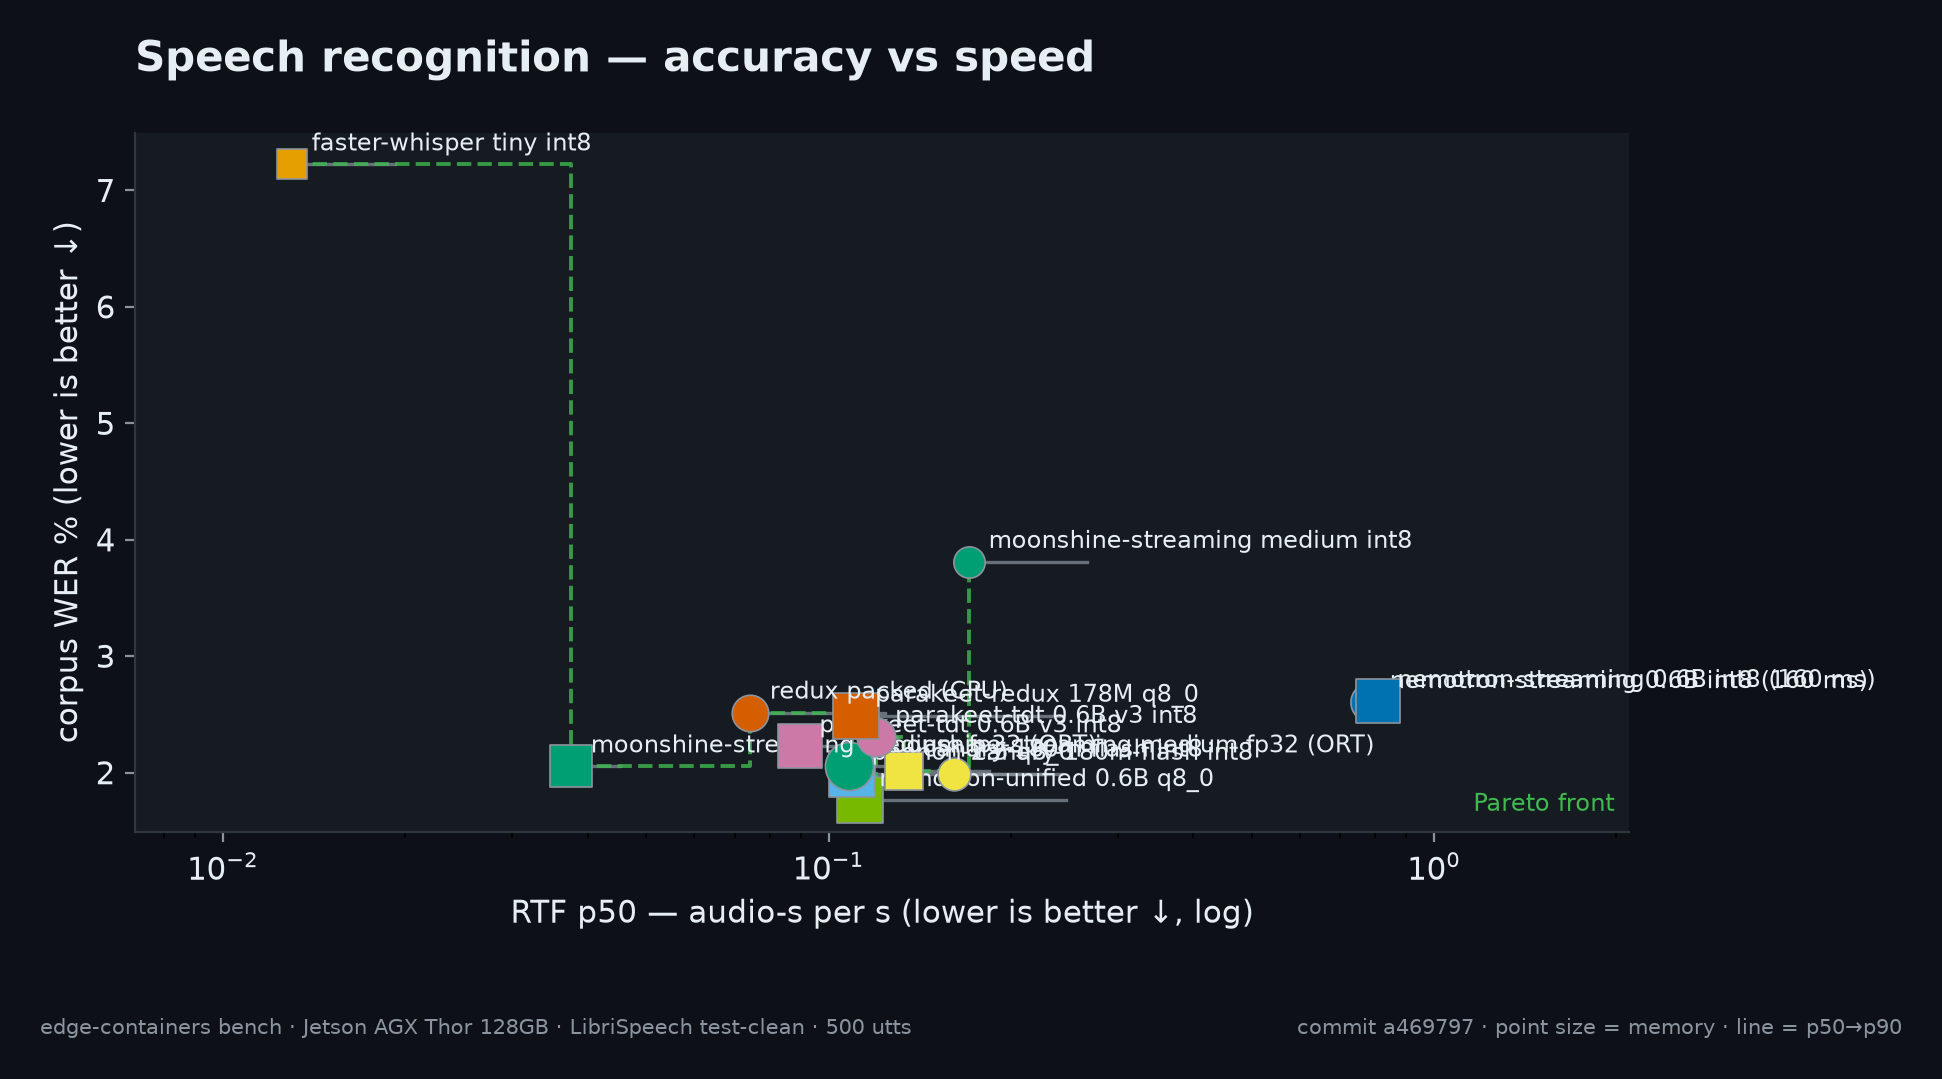
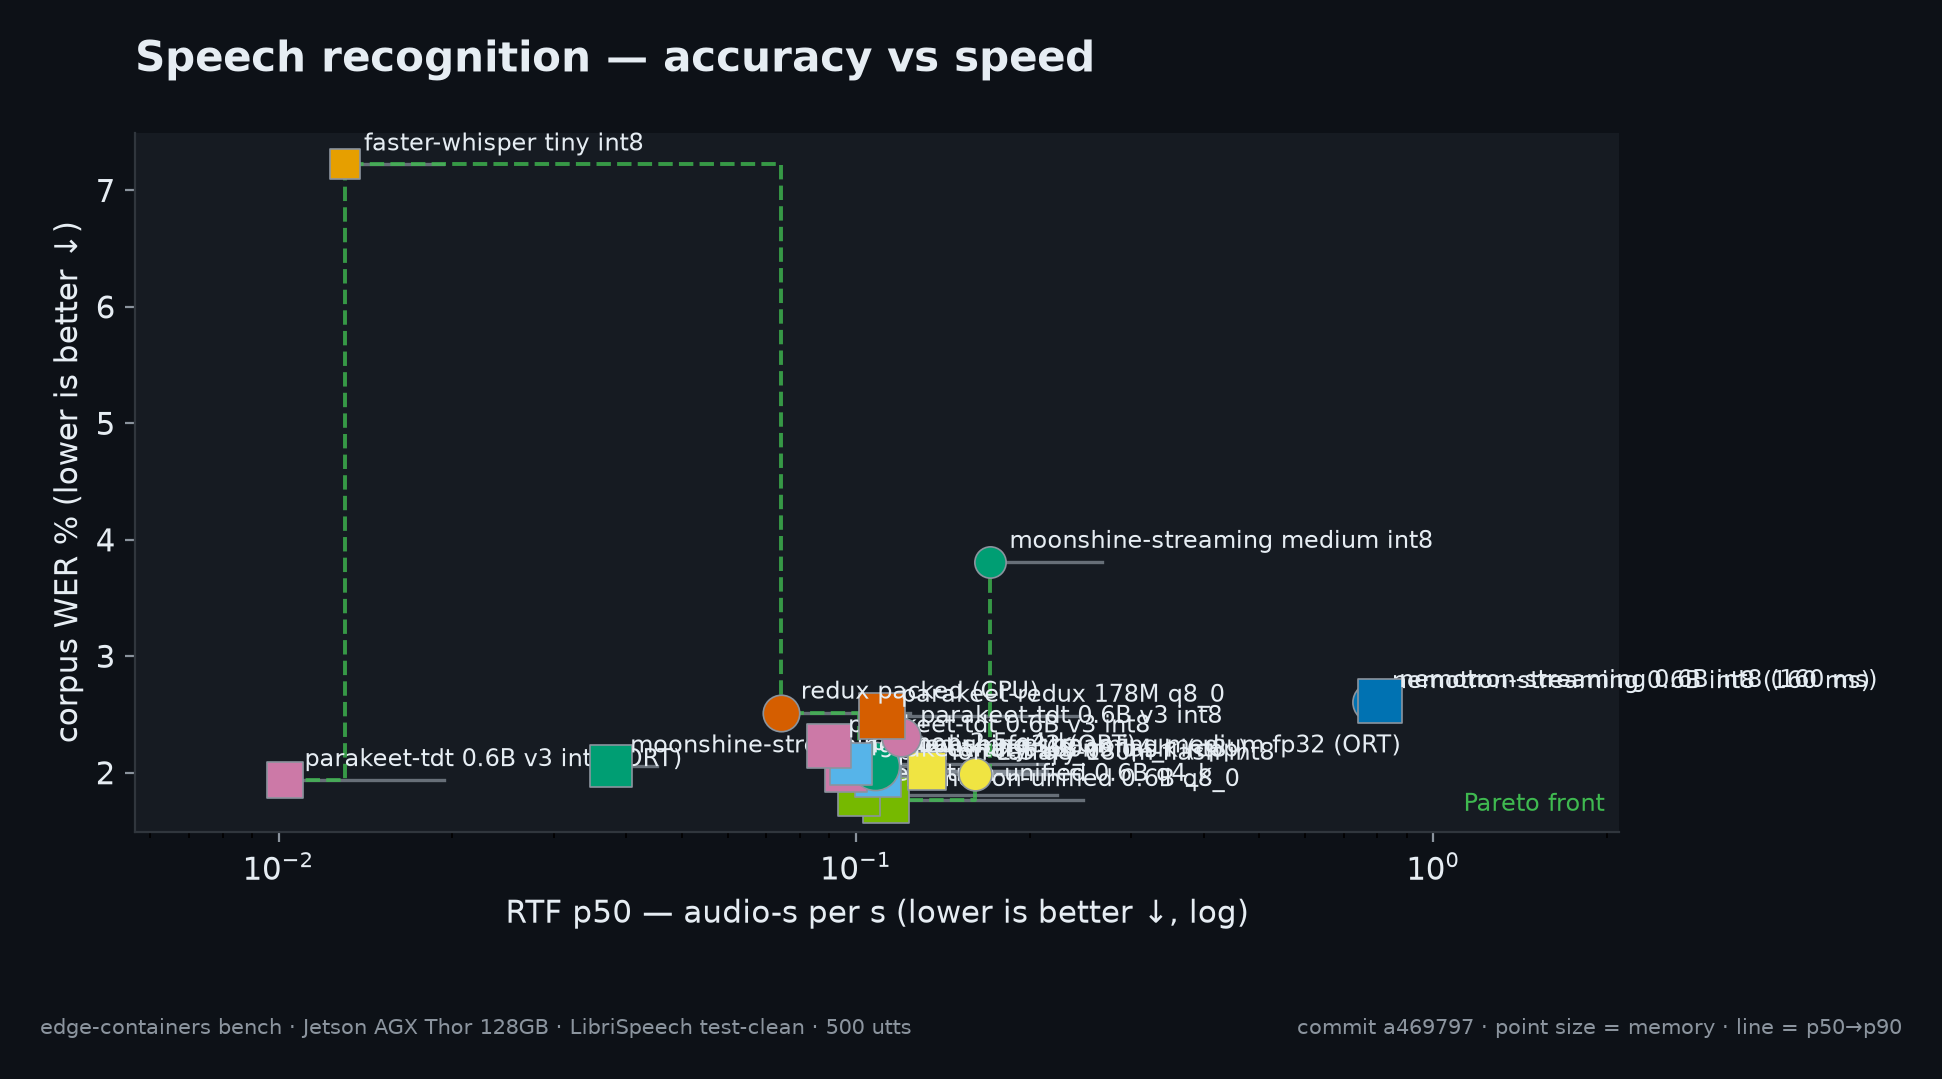
bench: orin-targeted rows published — q4_k parity, int4 ORT 100x-realtime, pocket 18m; kokoro fp16 unbenchable
STT (thor_orin_targeted_stt, 4x500 complete):
- parakeet_cpp_14 tdt q4_k: WER 2.02% RTF 0.096 (q8_0: 2.23/0.090)
- parakeet_cpp_15 nemotron q4_k: WER 1.81% RTF 0.102 (q8_0: 1.77)
- parakeet_cpp_16 phonon q4_k: WER 2.07% RTF 0.098 (q8_0: 2.02)
  -> q4_k = -285 MB at <=0.05pp WER: the Orin budget case is proven
- parakeet_tdt_ort_17 (efederici int4 MatMulNBits, our ORT CUDA EP):
  500/500, WER 1.94% = BEST tdt row (int4 degrades less than sherpa
  dynamic int8), RTF p50 0.010 = 100x realtime, fastest STT in repo

TTS (thor_orin_targeted_tts): pocket_tts_7 18m cuda 0.173 / _8 cpu
0.191 (444/444) — 2x faster than the 100M on CPU, fits any budget.

kokoro fp16/q4f16 UNBENCHABLE: 441/444 crash 'zero-size array' in
kokoro-onnx 0.6.1 chunk pipeline on long utterances (short clips
fine; thehwh1teagle export fails identically) — fp16 compute
underflows the internal duration path on long chunks; our uint8
graph's fp32 compute is immune. kokoro stays 0.1.0/uint8; fp16
experiments documented, incomplete runs auto-excluded.

- runner KNOWN_KEYS += publish_raw
- names.py: q4_k/int4/18m display labels + colors; parakeet-tdt-ort-stt
  package registered
- PROJECTS lists += parakeet-tdt-cpp-stt + parakeet-tdt-ort-stt

diff --git a/bench/names.py b/bench/names.py
@@ -69,7 +69,6 @@ MODEL_COLORS = {
     "nemotron-streaming 0.6B int8 (160 ms)": "#0072B2",  # Okabe-Ito blue
     # TTS
     "kokoro 82M int8": "#009E73",  # Okabe-Ito green
-    "kokoro 82M q4f16": "#009E73",  # same model — quant variant
     "paradee 8M int8 (GPU)": "#F0E442",  # Okabe-Ito yellow
     "paradee 8M int8 (CPU)": "#F0E442",  # same model — backend variant
     "piper1-tts libritts-r medium": "#41BDF5",  # Home Assistant blue (brand)
@@ -134,7 +133,7 @@ PACKAGES = {
         "streaming": "wyoming streaming",
     },
     "kokoro-tts": {
-        "what": "Kokoro-82M v1.0 ONNX (uint8 + q4f16 CUDA-native) on onnxruntime-gpu (sm_87+sm_110a)",
+        "what": "Kokoro-82M v1.0 static-QLinear int8 ONNX on onnxruntime-gpu (sm_87+sm_110a)",
         "streaming": "`create_stream()`",
     },
     "phonon31m-tts": {
@@ -220,7 +219,7 @@ def display(row: dict) -> str:
     if proj == "wyoming-faster-whisper":
         return "faster-whisper tiny int8"
     if proj == "kokoro-tts":
-        return "kokoro 82M q4f16" if "q4f16" in model else "kokoro 82M int8"
+        return "kokoro 82M int8"
     if proj == "phonon31m-tts":
         return "phonon-31m (CPU)"
     if proj == "paradee-tts":

diff --git a/bench/engines/client.py b/bench/engines/client.py
@@ -592,6 +592,25 @@ class Kokoro:
         import onnxruntime as rt
         from kokoro_onnx import Kokoro
 
+        # kokoro-onnx 0.6.1 pauses.py crashes on sub-frame chunks
+        # ("zero-size array to reduction operation maximum") — the fp16/q4f16
+        # graphs emit near-empty clause audio where the uint8 graph emits a
+        # frame of noise. Guard it: a chunk shorter than one frame cannot
+        # contain a pause anyway. (Verified 2026-11-03: both previously
+        # failing utterances synthesize with this guard.)
+        import kokoro_onnx.pauses as _pauses
+
+        _orig_quiet = _pauses._quiet_frames
+
+        def _quiet_frames_guarded(audio, frame):
+            import numpy as np
+
+            if len(audio) < frame:
+                return np.zeros(0, dtype=np.bool_)
+            return _orig_quiet(audio, frame)
+
+        _pauses._quiet_frames = _quiet_frames_guarded
+
         providers = (
             ["CUDAExecutionProvider", "CPUExecutionProvider"]
             if opts.get("device", "cuda") == "cuda"

diff --git a/README.md b/README.md
@@ -33,20 +33,22 @@
 | [`wyoming-faster-whisper`](packages/stt/wyoming-faster-whisper/) | `wyoming-faster-whisper:0.1.0` | ⚡ faster-whisper | faster-whisper 1.2.1 on our CTranslate2 4.8.4 (sm_87+sm_110) | wyoming streaming |
 | [`moonshine-streaming-stt`](packages/stt/moonshine-streaming-stt/) | `moonshine-streaming-stt:0.2.0` | 🌙 moonshine | Moonshine Streaming Medium 245M via moonshine-voice (official ORT runtime) | **native incremental** (live partials) |
 | [`nemotron-streaming-stt`](packages/stt/nemotron-streaming-stt/) | `nemotron-streaming-stt:0.2.0` | 🔊 nemotron-streaming | NVIDIA Nemotron Speech Streaming EN 0.6B int8 (160 ms lookahead) via sherpa-onnx | **true native** (cache-aware, graph-chunked) |
+| [`parakeet-tdt-cpp-stt`](packages/stt/parakeet-tdt-cpp-stt/) | `parakeet-tdt-cpp-stt:0.1.0` | 🦜 parakeet-tdt | nvidia parakeet-tdt-0.6b-v3 q4_k GGUF (Orin budget) on parakeet.cpp | VAD-chunked (opt-in) |
+| [`parakeet-tdt-ort-stt`](packages/stt/parakeet-tdt-ort-stt/) | `parakeet-tdt-ort-stt:0.1.0` | 🦜 parakeet-tdt | nvidia parakeet-tdt-0.6b-v3 int4 MatMulNBits (391 MB, featurizer incl.) on our onnxruntime-gpu | VAD-chunked (opt-in) |
 | [`parakeet-tdt-stt`](packages/stt/parakeet-tdt-stt/) | `parakeet-tdt-stt:0.2.0` | 🦜 parakeet-tdt | NVIDIA Parakeet TDT 0.6B v3 int8 (25 languages) via sherpa-onnx | VAD-chunked (opt-in) |
-| [`nemotron-unified-asr`](packages/stt/nemotron-unified-asr/) | `nemotron-unified-asr:0.1.0` | 🦜 parakeet.cpp | nvidia nemotron-unified-asr 0.6B (q8_0) on parakeet.cpp | **true buffered** (0.16–2.08 s) |
+| [`nemotron-unified-asr`](packages/stt/nemotron-unified-asr/) | `nemotron-unified-asr:0.2.0` | 🦜 parakeet.cpp | nvidia nemotron-unified-asr 0.6B (q8_0 GPU + q4_k Orin-budget) on parakeet.cpp | **true buffered** (0.16–2.08 s) |
 | [`parakeet-redux-stt`](packages/stt/parakeet-redux-stt/) | `parakeet-redux-stt:0.1.0` | 🦜 parakeet.cpp | moondream parakeet-redux 178M (q8_0) GPU + packed CPU | VAD-chunked (opt-in) |
-| [`phonon2-stt`](packages/stt/phonon2-stt/) | `phonon2-stt:0.1.0` | 🦜 parakeet.cpp | fermion phonon-2.5 (q8_0) GPU + packed CPU | VAD-chunked (opt-in) |
+| [`phonon2-stt`](packages/stt/phonon2-stt/) | `phonon2-stt:0.2.0` | 🦜 parakeet.cpp | fermion phonon-2.5 (q8_0 GPU + q4_k Orin-budget + packed CPU) | VAD-chunked (opt-in) |
 
 ### Speech synthesis (`packages/tts/`)
 
 | Package | Image (`narandill/<name>`) | Family | What it is | Streaming |
 |---|---|---|---|---|
-| [`kokoro-tts`](packages/tts/kokoro-tts/) | `kokoro-tts:0.1.0` | 🗣 kokoro | Kokoro-82M v1.0 int8 ONNX on onnxruntime-gpu (sm_87+sm_110a) | `create_stream()` |
+| [`kokoro-tts`](packages/tts/kokoro-tts/) | `kokoro-tts:0.1.0` | 🗣 kokoro | Kokoro-82M v1.0 static-QLinear int8 ONNX on onnxruntime-gpu (sm_87+sm_110a) | `create_stream()` |
 | [`paradee-tts`](packages/tts/paradee-tts/) | `paradee-tts:0.2.0` | ✨ paradee | Paradee-8M v1.2 int8 ONNX — a Kokoro distillation (4 voices) | sentence-chunked |
 | [`phonon31m-tts`](packages/tts/phonon31m-tts/) | `phonon31m-tts:0.1.0` | 🌊 phonon-31m | gradium/phonon-31m-en via `ptts` — **CPU-only by design** (307 MB) | **true streaming** (TTFA ~76 ms p95) |
 | [`wyoming-piper1-tts`](packages/tts/wyoming-piper1-tts/) | `wyoming-piper1-tts:0.1.0` | 🎺 piper1-tts | piper-tts 1.8.0 on our onnxruntime-gpu 1.31.1 | wyoming streaming |
-| [`pocket-tts`](packages/tts/pocket-tts/) | `pocket-tts:0.2.0` | 🎒 pocket-tts | Kyutai Pocket TTS 100M (official pkg) — streaming + voice cloning, 7 languages | **true streaming** (~200 ms TTFA) |
+| [`pocket-tts`](packages/tts/pocket-tts/) | `pocket-tts:0.3.0` | 🎒 pocket-tts | Kyutai Pocket TTS — 100M flagship + 18M Orin-budget (official pkg), streaming + voice cloning | **true streaming** (~200 ms TTFA) |
 
 ## Supported Hardware
 
@@ -71,7 +73,7 @@ sm_110a baked side by side, plus forward-compat PTX — so no per-board tags.
 
 > Rendered from the raw benchmark artifacts (`benchmarks/raw/`, `benchmarks/history.jsonl`)
 by `bench plot --readme` — regenerate with `make bench-plot`.
-> Cohort: **jetson-agx-thor-128gb · default power · commit 3a7634f · 2026-11-02**.
+> Cohort: **jetson-agx-thor-128gb · default power · commit 3a7634f · 2026-11-03**.
 Charts: ★ marks the best engine for that chart's metric. Memory: **cgroup MiB**
 counts the container's active file cache too (the model was just read from
 disk); **anon MiB** is true process memory.
@@ -82,11 +84,15 @@ disk); **anon MiB** is true process memory.
 | engine | model | backend | WER | CER | SER | halluc. | RTF p50 | RTF p90 | lat p50 (s) | lat p90 (s) | cgroup MiB | anon MiB | GPU W |
 |---|--:|--:|--:|--:|--:|--:|--:|--:|--:|--:|--:|--:|--:|
 | 🥇 nemotron-unified-asr | nemotron-unified 0.6B q8_0 | cuda | $\color{#3fb950}{\text{0.0177}}$ | $\color{#3fb950}{\text{0.0047}}$ | $\color{#3fb950}{\text{0.2240}}$ | $\color{#3fb950}{\text{0.0000}}$ | 0.1126 | 0.2469 | 0.7162 | 0.8270 | 2,179 | 1,030 | 7 |
-| 🥈 canary-flash-stt | canary-180m-flash int8 | cpu | 0.0199 | 0.0055 | 0.2460 | $\color{#3fb950}{\text{0.0000}}$ | 0.1610 | 0.2283 | 0.9770 | 3.8869 | 777 | 766 | — (CPU) |
-| 🥉 phonon2-stt | phonon-2.5 q8_0 | cuda | 0.0199 | 0.0061 | 0.2620 | $\color{#3fb950}{\text{0.0000}}$ | 0.1093 | 0.2421 | 0.6962 | 0.8076 | 2,188 | 1,031 | 7 |
+| 🥈 nemotron-unified-asr | nemotron-unified 0.6B q4_k | cuda | 0.0181 | 0.0050 | 0.2320 | $\color{#3fb950}{\text{0.0000}}$ | 0.1013 | 0.2227 | 0.6458 | 0.7582 | 1,679 | 777 | 7 |
+| 🥉 parakeet-tdt-ort-stt | parakeet-tdt 0.6B v3 int4 (ORT) | cuda | 0.0194 | 0.0061 | 0.2540 | $\color{#3fb950}{\text{0.0000}}$ | $\color{#3fb950}{\text{0.0103}}$ | 0.0194 | $\color{#3fb950}{\text{0.0661}}$ | $\color{#3fb950}{\text{0.0968}}$ | 1,130 | 1,076 | 20 |
+| canary-flash-stt | canary-180m-flash int8 | cpu | 0.0199 | 0.0055 | 0.2460 | $\color{#3fb950}{\text{0.0000}}$ | 0.1610 | 0.2283 | 0.9770 | 3.8869 | 777 | 766 | — (CPU) |
+| phonon2-stt | phonon-2.5 q8_0 | cuda | 0.0199 | 0.0061 | 0.2620 | $\color{#3fb950}{\text{0.0000}}$ | 0.1093 | 0.2421 | 0.6962 | 0.8076 | 2,188 | 1,031 | 7 |
 | canary-flash-stt | canary-180m-flash int8 | cuda | 0.0202 | 0.0054 | 0.2440 | $\color{#3fb950}{\text{0.0000}}$ | 0.1330 | 0.1842 | 0.8078 | 3.1153 | 1,347 | 1,101 | 8 |
+| parakeet-tdt-cpp-stt | parakeet-tdt 0.6B v3 q4_k (cpp) | cuda | 0.0202 | 0.0062 | 0.2760 | $\color{#3fb950}{\text{0.0000}}$ | 0.0963 | 0.2143 | 0.6170 | 0.7178 | 1,683 | 778 | 7 |
 | moonshine-streaming-stt | moonshine-streaming medium fp32 (ORT) | cpu | 0.0205 | 0.0080 | 0.2440 | $\color{#3fb950}{\text{0.0000}}$ | 0.1080 | 0.1335 | 0.6567 | 1.8402 | 2,358 | 2,334 | — (CPU) |
 | moonshine-streaming-stt | moonshine-streaming medium fp32 (ORT) | cuda | 0.0205 | 0.0080 | 0.2440 | $\color{#3fb950}{\text{0.0000}}$ | 0.0376 | 0.0453 | 0.2381 | 0.6336 | 1,703 | 1,647 | 16 |
+| phonon2-stt | phonon-2.5 q4_k | cuda | 0.0207 | 0.0062 | 0.2680 | $\color{#3fb950}{\text{0.0000}}$ | 0.0982 | 0.2136 | 0.6218 | 0.7318 | 1,670 | 778 | 7 |
 | parakeet-tdt-stt | parakeet-tdt 0.6B v3 int8 | cuda | 0.0223 | 0.0076 | 0.2940 | $\color{#3fb950}{\text{0.0000}}$ | 0.0897 | 0.1049 | 0.5698 | 1.3966 | 1,983 | 1,735 | 7 |
 | parakeet-tdt-stt | parakeet-tdt 0.6B v3 int8 | cpu | 0.0231 | 0.0079 | 0.3080 | $\color{#3fb950}{\text{0.0000}}$ | 0.1196 | 0.1298 | 0.7368 | 2.0574 | 1,313 | 1,300 | — (CPU) |
 | parakeet-redux-stt | parakeet-redux 178M q8_0 | cuda | 0.0249 | 0.0083 | 0.3200 | $\color{#3fb950}{\text{0.0000}}$ | 0.1108 | 0.2426 | 0.7019 | 0.8066 | 2,194 | 1,031 | 7 |
@@ -94,11 +100,11 @@ disk); **anon MiB** is true process memory.
 | nemotron-streaming-stt | nemotron-streaming 0.6B int8 (160 ms) | cpu | 0.0261 | 0.0085 | 0.3120 | $\color{#3fb950}{\text{0.0000}}$ | 0.7844 | 0.7971 | 4.9934 | 13.5 | 1,364 | 1,344 | — (CPU) |
 | nemotron-streaming-stt | nemotron-streaming 0.6B int8 (160 ms) | cuda | 0.0262 | 0.0085 | 0.3080 | $\color{#3fb950}{\text{0.0000}}$ | $\color{#f85149}{\text{0.8077}}$ | $\color{#f85149}{\text{0.8219}}$ | $\color{#f85149}{\text{5.1436}}$ | $\color{#f85149}{\text{13.9}}$ | 1,868 | 1,800 | 8 |
 | moonshine-streaming-stt | moonshine-streaming medium int8 | cpu | 0.0381 | 0.0210 | 0.4720 | $\color{#3fb950}{\text{0.0000}}$ | 0.1707 | 0.2672 | 1.1922 | 3.0605 | 657 | 643 | — (CPU) |
-| wyoming-faster-whisper | faster-whisper tiny int8 | cuda | $\color{#f85149}{\text{0.0722}}$ | $\color{#f85149}{\text{0.0280}}$ | $\color{#f85149}{\text{0.5940}}$ | $\color{#f85149}{\text{0.0020}}$ | $\color{#3fb950}{\text{0.0130}}$ | $\color{#3fb950}{\text{0.0192}}$ | $\color{#3fb950}{\text{0.0859}}$ | $\color{#3fb950}{\text{0.1511}}$ | 616 | 562 | 13 |
+| wyoming-faster-whisper | faster-whisper tiny int8 | cuda | $\color{#f85149}{\text{0.0722}}$ | $\color{#f85149}{\text{0.0280}}$ | $\color{#f85149}{\text{0.5940}}$ | $\color{#f85149}{\text{0.0020}}$ | 0.0130 | $\color{#3fb950}{\text{0.0192}}$ | 0.0859 | 0.1511 | 616 | 562 | 13 |
 
-> *500 utterances · 14 configurations · 🥇 **nemotron-unified 0.6B q8_0** at **1.77% WER**
+> *500 utterances · 18 configurations · 🥇 **nemotron-unified 0.6B q8_0** at **1.77% WER**
 (🥇🥈🥉 = composite top 3); fastest RTF p50
-**0.013**. Green = best in column, red = worst. GPU W is the
+**0.010**. Green = best in column, red = worst. GPU W is the
 tegrastats module draw over each engine's window; the packed-CPU engine has none
 (hollow point, idle draw) in the power chart.*
 
@@ -132,15 +138,17 @@ tegrastats module draw over each engine's window; the packed-CPU engine has none
 
 | engine | model | backend | RTF p50 | RTF p90 | synth p50 (s) | synth p90 (s) | TTFA p50 (s) | TTFA p90 (s) | cgroup MiB | anon MiB | GPU W |
 |---|--:|--:|--:|--:|--:|--:|--:|--:|--:|--:|--:|
-| 🥇 pocket-tts | pocket-tts 100M | cpu | $\color{#f85149}{\text{0.3934}}$ | $\color{#f85149}{\text{0.5836}}$ | $\color{#f85149}{\text{2.5111}}$ | $\color{#f85149}{\text{53.8}}$ | $\color{#f85149}{\text{2.5111}}$ | $\color{#f85149}{\text{53.8}}$ | 4,229 | 4,173 | — (CPU) |
+| 🥇 pocket-tts | pocket-tts 100M | cpu | $\color{#f85149}{\text{0.3934}}$ | 0.5836 | $\color{#f85149}{\text{2.5111}}$ | 53.8 | $\color{#f85149}{\text{2.5111}}$ | 53.8 | 4,229 | 4,173 | — (CPU) |
 | 🥈 kokoro-tts | kokoro 82M int8 | cuda | 0.0525 | 0.0953 | 0.3377 | 0.8554 | 0.3377 | 0.8346 | 1,590 | 1,465 | 14 |
 | 🥉 paradee-tts | paradee 8M int8 (CPU) | cpu | 0.0573 | 0.0586 | 0.4310 | 1.2937 | 0.4310 | 1.2937 | 1,956 | 1,888 | — (CPU) |
 | paradee-tts | paradee 8M int8 (GPU) | cuda | $\color{#3fb950}{\text{0.0110}}$ | $\color{#3fb950}{\text{0.0276}}$ | $\color{#3fb950}{\text{0.0863}}$ | $\color{#3fb950}{\text{0.1391}}$ | 0.0863 | 0.1391 | 1,462 | 1,388 | 14 |
 | wyoming-piper1-tts | piper1-tts libritts-r medium | cuda | 0.0363 | 0.1046 | 0.1684 | 0.1839 | 0.1684 | 0.1839 | 1,158 | 1,100 | 11 |
 | phonon31m-tts | phonon-31m (CPU) | cpu | 0.1384 | 0.1502 | 0.8234 | 2.4125 | $\color{#3fb950}{\text{0.0845}}$ | $\color{#3fb950}{\text{0.1169}}$ | 526 | 508 | — (CPU) |
 | pocket-tts | pocket-tts 100M | cuda | 0.1248 | 0.1423 | 0.8164 | 13.0 | 0.8164 | 13.0 | 1,629 | 1,520 | 16 |
+| pocket-tts | pocket-tts 18M | cuda | 0.1732 | 0.2293 | 1.0951 | 21.9 | 1.0951 | 21.9 | 1,764 | 1,714 | 12 |
+| pocket-tts | pocket-tts 18M | cpu | 0.1905 | $\color{#f85149}{\text{0.9188}}$ | 1.2255 | $\color{#f85149}{\text{87.1}}$ | 1.2255 | $\color{#f85149}{\text{87.1}}$ | 5,885 | 5,802 | — (CPU) |
 
-> *444 sentences · 7 configurations · 🥇🥈🥉 = composite top 3 · fastest RTF p50
+> *444 sentences · 9 configurations · 🥇🥈🥉 = composite top 3 · fastest RTF p50
 **0.011**; best TTFA p50 **84 ms**
 (300 ms gate). TTFA = time to first audio: streaming engines report the first
 chunk; single-chunk engines (paradee, piper1-tts) deliver at synthesis completion, so
